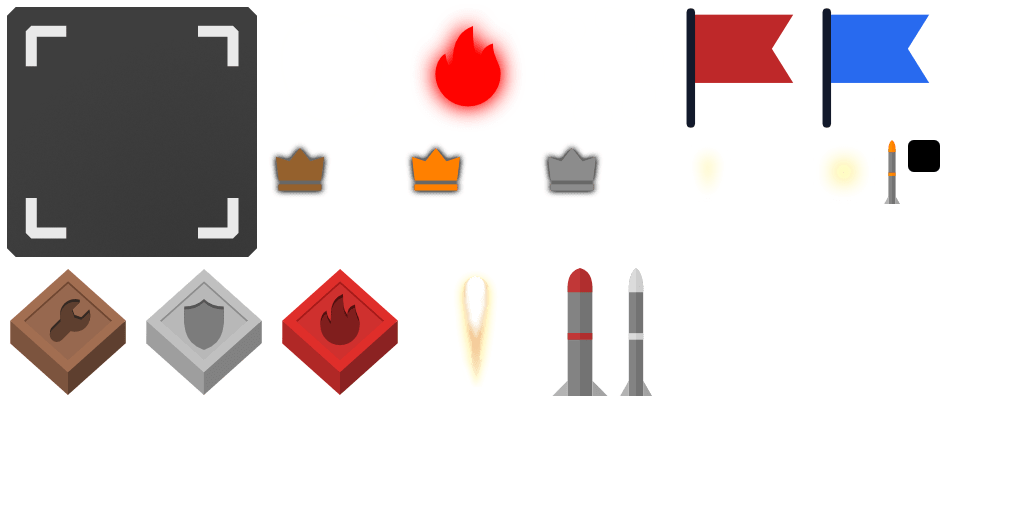
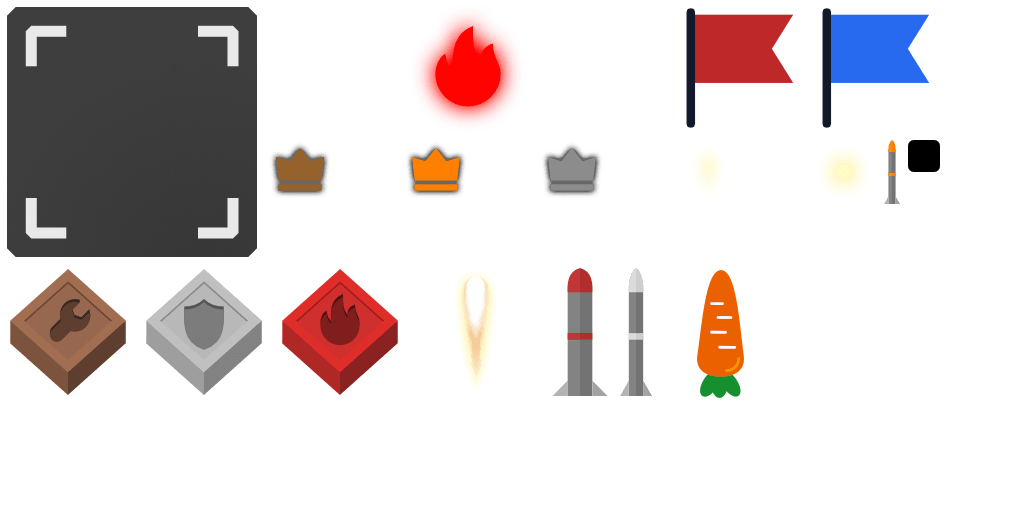
Textures: add missile_carrot texture

Changed region(s): [[0.6562, 0.5312, 0.75, 0.7812]]

diff --git a/src/js/Textures.js b/src/js/Textures.js
@@ -87,6 +87,7 @@ var imageUrlByName = {
         crate_rampage: ["items", [276, 268, 128, 128]],
         afterburner: ["items", [412, 268, 128, 128]],
         missile_fat: ["items", [548, 268, 64, 128]],
+        missile_carrot: ["items", [694, 268, 64, 128]],
         missile: ["items", [620, 268, 32, 128]],
         doodad_field: ["items", [4, 4, 256, 256]],
         badge_bronze: ["items", [268, 140, 64, 64]],
@@ -366,6 +367,12 @@ var imageUrlByName = {
             layer: "projectiles",
             anchor: [0.5, 0],
             scale: [0.2, 0.2]
+        },
+        missileCarrot: {
+            texture: "missile_carrot",
+            layer: "projectiles",
+            anchor: [0.5, 0],
+            scale: [0.3, 0.3]
         },
         missileShadow: {
             texture: "missile_shadow",
